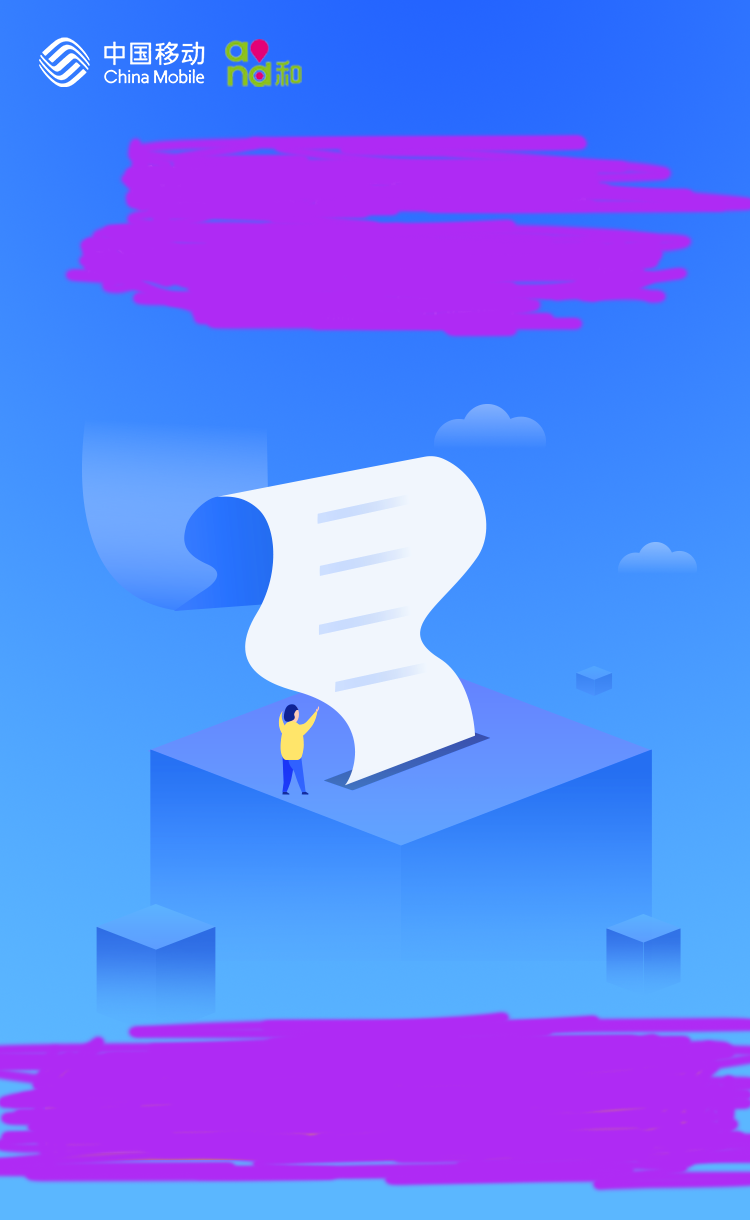
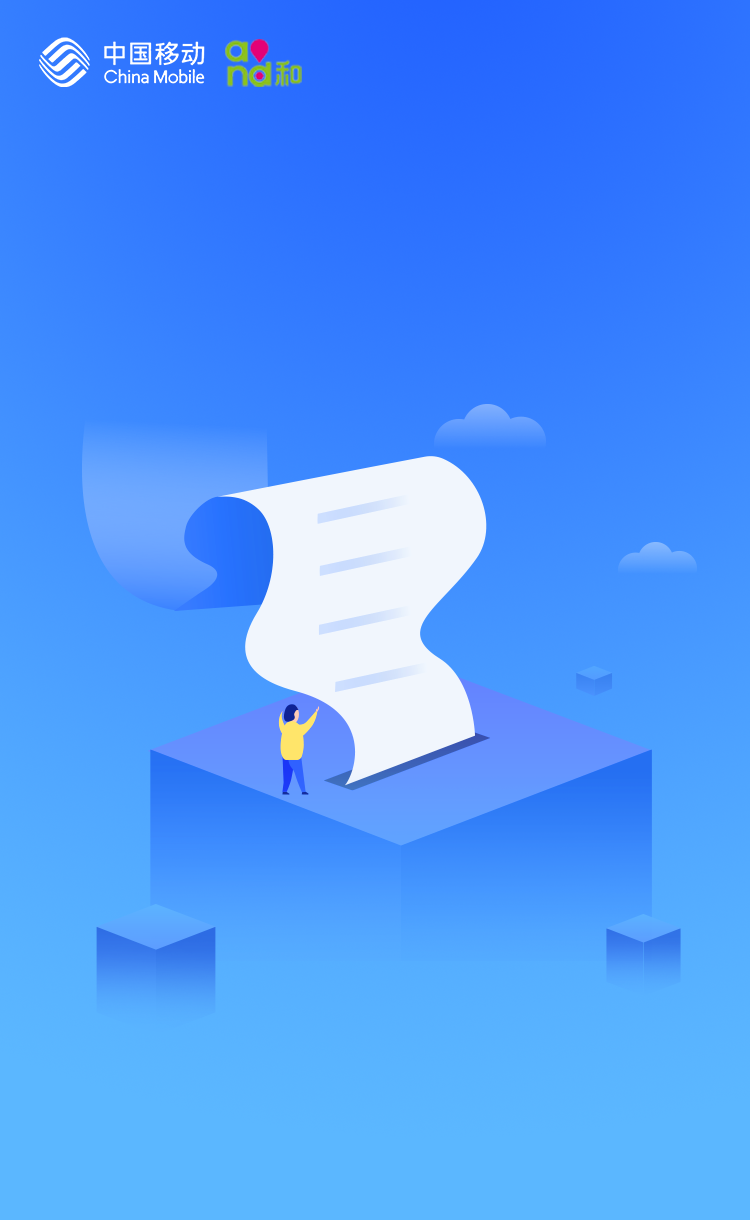
替换图片，优化逻辑

Changed region(s): [[0.0, 0.8098, 1.0, 0.9967], [0.092, 0.0934, 1.0, 0.2803]]

diff --git a/js/papers.js b/js/papers.js
@@ -10,28 +10,34 @@ $(function () {
     getList()
     // 获取接口数据，赋值给_data
     function getList() {
-        _data = [
-            {
-                title: '我是一个单选题',
-                type: '1',
-                id: '1111',
-                childen: ['选项1', '选项2', '选项3']
+        _data = [{
+            title: '我是一个单选题',
+            type: '1',
+            id: 'z12',
+            childen: ['选项1', '选项2', '选项3']
+        }, {
+            title: '我是一个多选题',
+            type: '2',
+            id: 'z13',
+            childen: ['选项1', '选项2', '选项3']
+        }, {
+            title: '我是一个打分题',
+            type: '3',
+            id: 'z14',
+            childen: [{
+                name: '我是第一个打分项',
+                val: '10',
+                id: 'z333'
             }, {
-                title: '我是一个多选题',
-                type: '2',
-                id: '2222',
-                childen: ['选项1', '选项2', '选项3']
-            }, {
-                title: '我是一个打分题',
-                type: '3',
-                id: '333',
-                childen: [{ name: '我是第一个打分项', val: '5',id:'33333333333' },{ name: '我是第二个打分项', val: '5',id:'333444444444' }]
-            }, {
-                title: '我是一个填空题',
-                id: '444',
-                type: '4'
-            }
-        ]
+                name: '我是第二个打分项',
+                val: '5',
+                id: 'z3399'
+            }]
+        }, {
+            title: '我是一个填空题',
+            id: 'z15',
+            type: '4'
+        }]
         // 拼接所有题型 统一添加dom
         _data.map((ite, ind) => {
             html += getQuestionStr(ite);
@@ -45,6 +51,11 @@ $(function () {
 
     // 监听 点击下一题或者提交的方法
     $('.next-btn').on('click', function () {
+        // 校验当前是否已答题，未答题不能进入下一题
+        if (_index != 0 && checkFn()) {
+            alert('请先答完题目再进行操作！')
+            return
+        }
         if (_index == _data.length) { // 当前是提交
             submit()
             return
@@ -56,76 +67,109 @@ $(function () {
             $('#papersFrom .subject-box').eq(_index).removeClass('hide')
             _index++
         }
-        if (_index == _data.length) {// 最后一题 进入
+        if (_index == _data.length) { // 最后一题 进入
             $('.next-btn').addClass('last').text('提交')
         }
     })
     // 点击确定跳转
     $('.sure-btn').on('click', function () {
-        location.href = './index.html'
+        if($('.pop-box .info-box').hasClass('fail')){
+            $('.pop-box').addClass('hide')
+        }else{
+            location.href = './index.html'
+        }
     })
+    // 判断当前题目是否完成，未完成弹出提示，不进入下一题
+    function checkFn() {
+        var from = $("#papersFrom").serialize();
+        return from.split('&').map(ite => {
+            var _obj = {};
+            _obj[ite.split('=')[0]] = ite.split('=')[1] ? ite.split('=')[1] : '';
+            return _obj
+        }).filter(it => {
+            return _data[_index - 1].type != 3 ? it[_data[_index - 1].id] : _data[_index - 1].childen.filter(te => {
+                return from.indexOf(te.id) > -1
+            }).length == _data[_index - 1].childen.length;
+        }).length == 0;
+    }
     // 提交调用
     function submit() {
-        console.log($("#papersFrom").serialize())
+        // 接口返回成功 以下不执行，提交失败执行
+        console.log('提交的数据',$("#papersFrom").serialize())
+        var flag = true; //接口返回的状态，成功 or 失败
+        if(flag){
+            $('.pop-box .info-box').removeClass('fail')
+            $('.pop-box h5').text('提交成功')
+            $('.pop-box p').text('感谢您宝贵的时间，祝您生活愉快！')
+        }else{
+            $('.pop-box .info-box').addClass('fail')
+            $('.pop-box h5').text('提交失败')
+            $('.pop-box p').text('请重新提交！')
+        }
         $('.pop-box').removeClass('hide')
+        
     }
     // 根据题型返回dom字符串 单个题型
     function getQuestionStr(obj) {
         var _str = '';
         if (obj.type == 1) {
             _str += '<div class="subject-box hide" data-type="单选题">' +
-                '    <div class="title">'+obj.title+'</div>' +
-                    getOptin(obj) +
+                '    <div class="title">' + obj.title + '</div>' +
+                getOptin(obj) +
                 '</div>';
-                function getOptin(obj){
-                    var _optinstr = '';
-                    obj.childen.map(ite=>{
-                        _optinstr += '<label class="dis-f"><input type="radio" name="'+obj.id+'"  value="'+ite+'" /><i class="flex-1">'+ite+'</i></label>' 
-                    })
-                    return _optinstr
-                }
+
+            function getOptin(obj) {
+                var _optinstr = '';
+                obj.childen.map(ite => {
+                    _optinstr += '<label class="dis-f"><input type="radio" name="' + obj.id + '"  value="' + ite + '" /><i class="flex-1">' + ite + '</i></label>'
+                })
+                return _optinstr
+            }
         } else if (obj.type == 2) {
             _str += '<div class="subject-box hide" data-type="多选题">' +
-                '    <div class="title">'+obj.title+'</div>' +
-                    getOptin(obj) +
+                '    <div class="title">' + obj.title + '</div>' +
+                getOptin(obj) +
                 '</div> '
-                function getOptin(obj){
-                    var _optinstr = '';
-                    obj.childen.map(ite=>{
-                        _optinstr +='<label class="dis-f"><input type="checkbox" name="'+obj.id+'"  value="'+ite+'" /><i class="flex-1">'+ite+'</i></label>' 
-                    })
-                    return _optinstr
-                }
+
+            function getOptin(obj) {
+                var _optinstr = '';
+                obj.childen.map(ite => {
+                    _optinstr += '<label class="dis-f"><input type="checkbox" name="' + obj.id + '"  value="' + ite + '" /><i class="flex-1">' + ite + '</i></label>'
+                })
+                return _optinstr
+            }
         } else if (obj.type == 3) {
             _str += '<div class="subject-box hide" data-type="打分题">' +
-                '    <div class="title">'+obj.title+'</div>' +
+                '    <div class="title">' + obj.title + '</div>' +
                 '    <ul class="chiled-label">' +
-                    getOptin(obj)+
+                getOptin(obj) +
                 '    </ul>' +
                 '</div> ';
-                function getOptin(obj){
-                    var _optinstr = '';
-                    obj.childen.map(ite=>{
-                        _optinstr+= '<li>' +
-                                    '    <div class="name">'+ite.name+'</div>' +
-                                    '    <div class="label-box dis-f">' +
-                                        getChildOption(ite)+
-                                    '    </div>' +
-                                    '</li>'
-                    })
-                    return _optinstr
+
+            function getOptin(obj) {
+                var _optinstr = '';
+                obj.childen.map(ite => {
+                    _optinstr += '<li>' +
+                        '    <div class="name">' + ite.name + '</div>' +
+                        '    <div class="label-box dis-f">' +
+                        getChildOption(ite) +
+                        '    </div>' +
+                        '</li>'
+                })
+                return _optinstr
+            }
+
+            function getChildOption(obj) {
+                var _optinChildstr = '';
+                for (var i = 0; i < obj.val; i++) {
+                    _optinChildstr += '<label class="dis-f"><input type="radio" name="' + obj.id + '"  value="' + (i + 1) + '" /><i class="flex-1">' + (i + 1) + '</i></label>'
                 }
-                function getChildOption(obj){
-                    var _optinChildstr = '';
-                    for(var i=0;i<obj.val;i++){
-                        _optinChildstr +='<label class="dis-f flex-1"><input type="radio" name="'+obj.id+'"  value="'+(i+1)+'" /><i class="flex-1">'+(i+1)+'</i></label>'
-                    }
-                    return _optinChildstr
-                }
+                return _optinChildstr
+            }
         } else {
             _str += '<div class="subject-box hide" data-type="填空题">' +
-                '    <div class="title">'+obj.title+'</div>' +
-                '    <textarea name="'+obj.id+'" ></textarea>' +
+                '    <div class="title">' + obj.title + '</div>' +
+                '    <textarea name="' + obj.id + '" ></textarea>' +
                 '</div> '
         }
         return _str

diff --git a/css/papers.css b/css/papers.css
@@ -1,6 +1,6 @@
 .papers-warp {
     height: 100%;
-    background: #5bb7ff url('../img/start_bg.png') no-repeat top left;
+    background: #5bb7ff url('../img/papers_bg.png') no-repeat top left;
     background-size: 100%;
     padding-top: 1.65rem;
 }
@@ -16,7 +16,7 @@
     width: 6.9rem;
     margin: 0 auto;
     padding: 1rem .5rem 0 .43rem;
-    color: #303133;
+    color: #483d0a;
     min-height: 7.7rem;
 }
 
@@ -51,7 +51,7 @@
 }
 
 .subject-box .title {
-    font-size: .28rem;
+    font-size: .3rem;
     font-weight: bold;
     line-height: .4rem;
     padding-bottom: .3rem;
@@ -59,11 +59,13 @@
 
 .subject-box label {
     height: .72rem;
+    width: 20%;
 }
 
 .subject-box label i {
-    font-size: .26rem;
+    font-size: .28rem;
     font-style: normal;
+    line-height: 1.1;
 }
 
 .subject-box input {
@@ -81,6 +83,7 @@
 
 .subject-box .chiled-label .label-box {
     padding-bottom: .3rem;
+    flex-wrap: wrap;
 }
 
 .subject-box textarea {
@@ -93,7 +96,7 @@
 }
 
 .papers-warp .btn {
-    font-size: .34rem;
+    font-size: .36rem;
     width: 6.6rem;
     height: 1.05rem;
     line-height: 1rem;
@@ -105,7 +108,9 @@
 }
 
 .papers-warp .btn.last {
-    background-color: #f3cc12;
+    color: #483d0a;
+    background: url('../img/btn.png') no-repeat;
+    background-size: 100%;
 }
 
 /* 弹窗 */
@@ -125,22 +130,25 @@
     width: 6.45rem;
     height: 6.3rem;
     transform: translate(-50%, -50%);
-    background: url('../img/pop_bg.png') no-repeat;
+    background: url('../img/pop_bg_ok.png') no-repeat;
     background-size: 100% 100%;
     padding-top: 2.6rem;
+}
+.pop-box .info-box.fail{
+    background-image: url('../img/pop_bg_fail.png');
 }
 
 .pop-box .info-box h5 {
     line-height: .9rem;
     height: .9rem;
     font-weight: bold;
-    color: #303133;
+    color: #483d0a;
 }
 
 .pop-box .info-box p {
     line-height: 1;
     margin-bottom: .8rem;
-    color: #303133;
+    color: #483d0a;
 }
 
 .pop-box .info-box .sure-btn {

diff --git a/papers.html b/papers.html
@@ -64,10 +64,11 @@
             </form>
         </div>
         <div class="btn next-btn pos-a br-10 al-c ">下一题</div>
+        <!-- 弹窗 -->
         <div class="pop-box hide">
             <div class="info-box al-c">
                 <h5>提交成功</h5>
-                <p>感谢您宝贵的时间，祝您生活愉快</p>
+                <p>感谢您宝贵的时间，祝您生活愉快！</p>
                 <div class="sure-btn">确定</div>
             </div>
         </div>

diff --git a/index.html b/index.html
@@ -28,7 +28,7 @@
         }
 
         .start-btn {
-            font-size: .34rem;
+            font-size: .36rem;
             color: #483d0a;
             width: 6.6rem;
             height: 1.05rem;
@@ -36,7 +36,8 @@
             bottom: .58rem;
             left: 50%;
             transform: translateX(-50%);
-            background-color: #f3cc12;
+            background: url('./img/btn.png') no-repeat;
+            background-size: 100%;
         }
     </style>
 </head>
